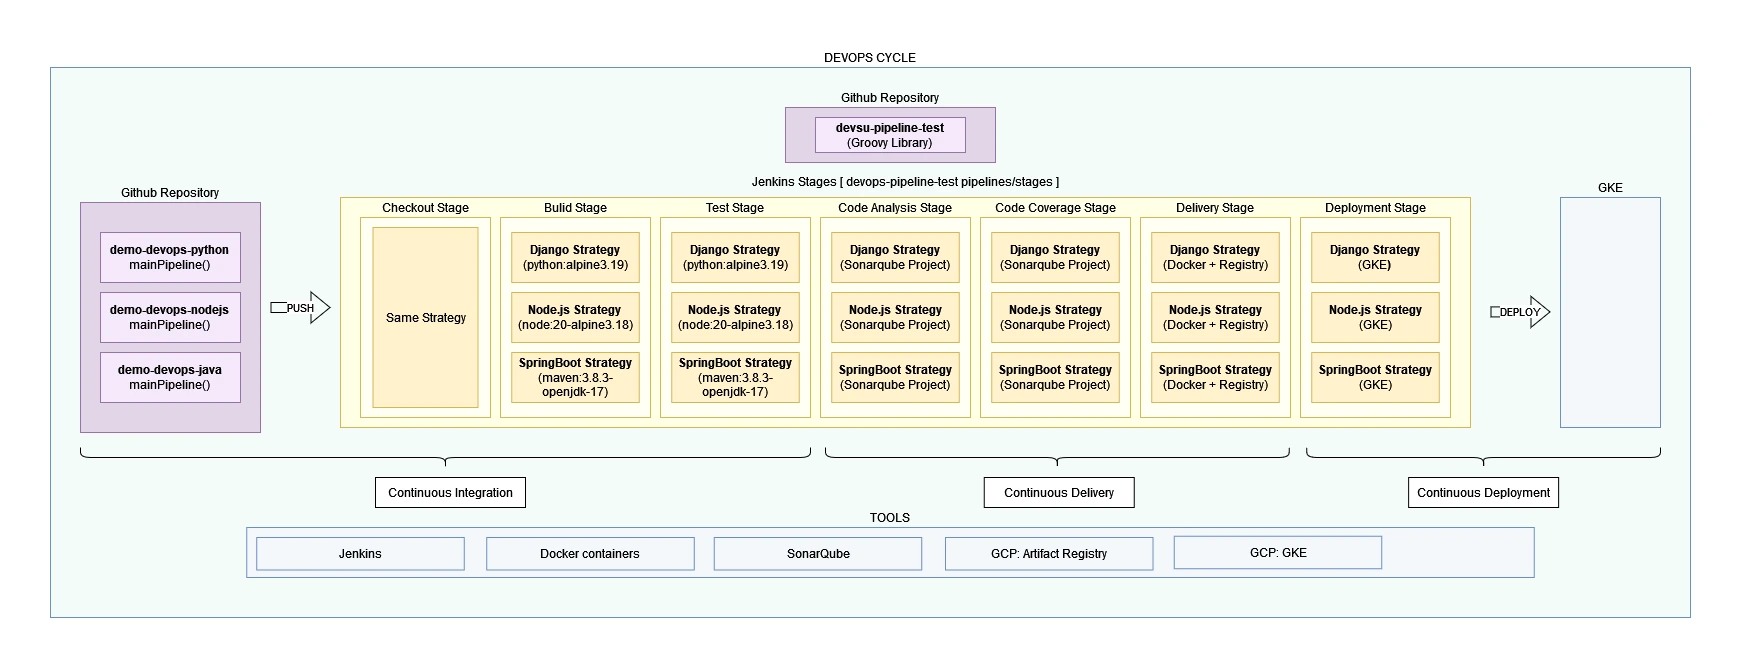
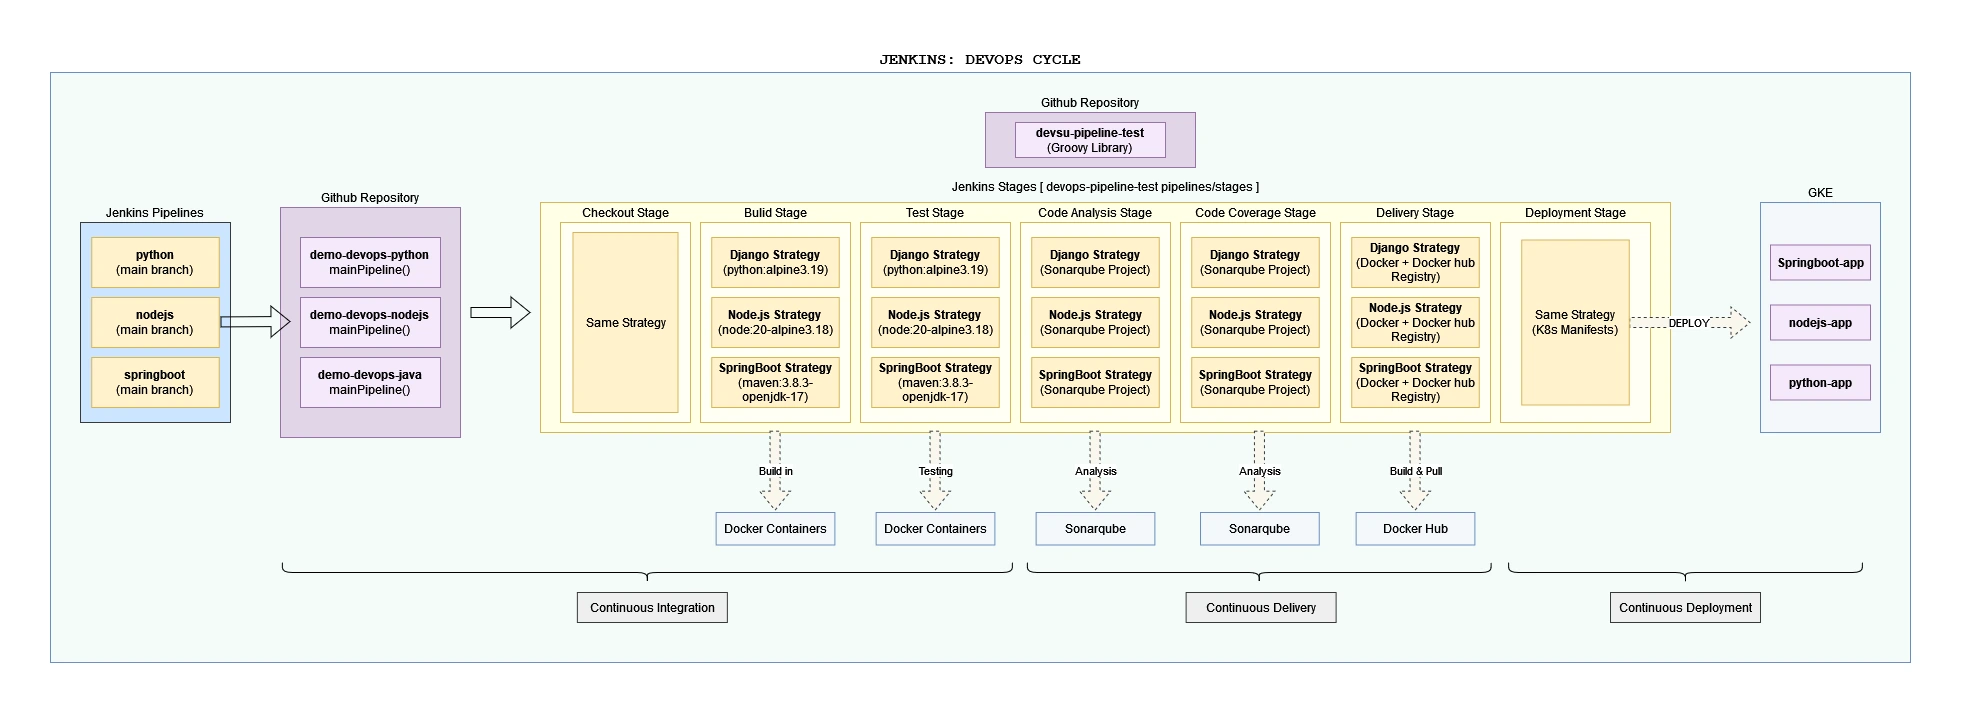
feat: Third version README.md

diff --git a/README.md b/README.md
@@ -44,15 +44,43 @@ El token generado siguiente comando, tiene que ser utilizada en Jenkins
 ```
 curl -u admin:devsu2024 -X POST "http://sonarqube:9000/api/user_tokens/generate?login=admin&name=testToken"
 ```
+**[[[[[[[[[[[[[[[ Crear proyectos por comando ]]]]]]]]]]]]]]]**
 Cambio en Jenkins:
 ![alt text](images/changeSecret.png)
 
-## 2. Infraestrctura
+Finalizado esto, podremos ver nuestro jenkins levantado y ejecutar los pipelines de devops-stages o de infrastructure:
+![alt text](images/devops-stages.png)
+![alt text](images/infrastructure-stages.png)
 
-## 1.1
+### 1.4 Log de ejecución previa:
+- Logs de la ejecución de este paso: [Log](Log-devops-tools.md)
 
-## 3. Pipelines
-### 1.1 Introducción
+## 2. Infraestructura
+## 2.1 Introducción
+La intención de la infraestructura desplegada es que pueda utilizarse en diferentes entornos. 
+
+## 2.2 Diagrama
+![Diagrama de Infraestructura](images/ArchitectureDiagram-Infrastructure.webp)
+
+Para la solución se ha utilizado:
+- Jenkins
+- Sonarqube
+- Docker containers
+- Docker Hub Registry
+- Google Cloud
+  - Google Compute Instance: Instancias
+  - Google Kubernetes Engine: GKE
+
+## 2.3 Despliegue 
+
+El despliegue de la solución constó de 2 etapas:
+- Aprovisionamiento el Google Cloud de la instancia y GKE Clúster utilizando scripts los módulos de terraform.
+  - Ruta: **[[[[[[[[[[[[[[[ Indicar ruta de los scripts Terraform]]]]]]]]]]]]]]]**
+  - Log: Aquí
+
+
+## 3. Pipelines Infraestructura
+### 3.1 Introducción
 Se ha querido dar un enfoque total. Crear una librería escrita en Groovy para Jenkins que sea escalable. Utilizando una estructura similar para diferentes tipos de proyectos, clouds y recursos.
 
 Link: https://github.com/eingaruca/devsu-pipeline-test/tree/main/pipelines/infrastructure/library
@@ -63,7 +91,7 @@ Tecnologías utilizadas:
   - Terraform
   - Ansible
 
-### 1.2 Pipeline
+### 3.2 Pipeline
 ![alt text](<images/ArchitectureDiagram-Infrastructure Cycle.webp>)
 
 Tal como se puede ver en el gráfico, se ha creado la librería Groovy que tendrá que utilizar cada Jenkinsfile. Esta librería aporta 5 etapas al pipeline.
@@ -79,7 +107,7 @@ Tal como se puede ver en el gráfico, se ha creado la librería Groovy que tendr
   - **AWS Strategy**: No implementado, mejora futura.
 - **Post Stage**: Limpieza del workspace
 
-### 1.3 Estructura de clases:
+### 3.3 Estructura de clases:
 
 ![alt text](images/infraClasses.png)
 
@@ -93,7 +121,7 @@ Tal como se puede ver en el gráfico, se ha creado la librería Groovy que tendr
   - **resources**: Utiliza los módulos creados antes, indica variables por defecto para que si el usario sólo indica el nombre del recurso, el pipeline se encargue de crear dicho recurso con valores por defecto.
     - **ansible**: Adicionalmente, en la carpeta de instancias, se han creado playbooks de ansible que instalan y configuran los recusos necesarios para la configuración de la instancia **[[[[[[[[[[[[[ REVISAR ]]]]]]]]]]]]]**.
 
-### 1.4 Uso Básico
+### 3.4 Uso Básico
 Jenkinsfile:
 
 ![alt text](images/mainInfrastructure.png)
@@ -116,14 +144,74 @@ El uso desde un Jenkinsfile es muy sencillo.
   ```
   Los demás parámetros necesarios los completan los scripts de terraform que utilizan los módulos. 
 
+## 4. Pipeline Ciclo DevOps (demo-app-*)
 
-Consta de tres etapas muy marcadas.
+### 4.1 Introducción
+También, se ha querido dar un enfoque total. Se ha creado una librería escrita en Groovy para Jenkins que sea escalable. Se ha adaptado las estrategias del pipeline para proyectos java (springboot), nodejs y python (Django). El uso de contenedores, permite que se dependa muy poco del entorno sobre el que se ejecuta y es el primer paso para llevarlo a orquestadores de microservicios como Kubernetes u Openshift.
 
-- Despliegue infrastructura
-  - IaC
-    - Google cloud
-      - 
+Se ha "modularizado" las diferentes etapas, por lo que si un Stage, un Strategy o alguna función interna de cada una de estas necesita reforzarce o ampliarse, puede hacerse limpiamente sin afectar a el script principal, incluso permitiendo que se pueda trabajar en paralelo en diferentes Stages.
+
+Si bien, aprender el uso inicial del Jenkinsfile puede implicar un poco de esfuerzo, se convierte en una herramienta potente sencilla y adaptable a diferentes proyectos.
+
+### 4.2 Pipeline
 
 ![alt text](<images/ArchitectureDiagram-DevOps Cycle.webp>)
 
-#
+El pipeline se ha parametrizado para ejecutarse en base a 2 factores:
+- **Tipo de Proyecto**. El pipeline admite proyectos en nodejs, python y java. La estrategia cambia dependiendo de ese parámetro.
+- **Tipo de Stage**. Desde el Jenkinsfile puedo indicar si necesito que alguna etapa se ejecute, siendo obligatorias el Checkout Stage y Build Stage. Todas las demás son opcionales. Esto permite adaptarse de muchos requerimientos y por lo mismo, escalable y ampliable a una branchStrategy (Mejora para el futuro).
+
+En cuanto a los Stages o etapas, esta es una breve descripción de cada una:
+
+- **Checkout Stage**: Obligatorio y común a todo tipo de proyecto, no hace falta parametrizarlo.
+- **Build Stage**: Obligatorio. Dependiendo del tipo de proyecto realiza un build de manera diferente. Realiza el build en contenedor docker para no utilizar configuración del servidor (Contenedor) de Jenkins.
+- **Test Stage**: Opcional. *ArrayList*. Si no se espefica, no se ejecuta. Pero si se espefica, hay que indicarle que tipo de pruebas necesitamos. Se hacen las pruebas sobre contenedores (Se crean y destruyen) docker para no depender de la configuración de Jenkins. Hay tres tipos de pruebas:
+  - **Unitarias**: *Boolean*. Si no existe para el tipo de Proyecto, lo imprime en el output del pipeline.
+  - **Aceptación**: *Boolean*. Si no existe para el tipo de Proyecto, lo imprime en el output del pipeline.
+  - **Integración**: *Boolean*. Si no existe para el tipo de Proyecto, lo imprime en el output del pipeline.
+- **Code Analysis Stage**: *Boolean*. Si es true, utiliza el tipo de proyecto para realizar el análisis de código estático buscando el proyecto específico en el contenedor de Sonarqube previamente desplegado simulando un servidor de Sonarqube.
+- **Code Coverage Stage**: *Boolean*. Si es true, utiliza el tipo de proyecto para realizar el análisis de código estático buscando el proyecto específico en el contenedor de Sonarqube previamente desplegado simulando un servidor de Sonarqube.
+- **Delivery Stage**: *Boolean*. Si es true, realiza el build y push del Dockerfile de cada proyecto , dependiendo del Tipo de Proyecto, sobre el repositorio de DockerHub.
+- **Deployment Stage**: *Boolean*. Si es true, utiliza una imagen oficial de GCP para crear un contenedor, se realiza de esta forma por seguridad. Así evitamos cualquier configuración en el servidor (Contenedor) de Jenkins:
+  - Hace login al clúster de GKE. 
+  - Borra recursos utilizando el manifiesto en el proyecto.
+  - Aplica el manifiesto.
+  - Realiza una comprobación (kubectl get pods) para comprobar que los pods estén ejecutándose.
+- **Post Stage**: Limpieza del workspace. **[[[[[[[Proximamente]]]]]]]**
+
+### 4.3 Estructura de clases
+![alt text](images/devops-Classes.png)
+
+- La clase principal es **mainPipeline.groovy**, que recibirá los parámetros que determinarán el comportamiento/estrategia del pipeline.
+
+- La carpeta **src/org/emic/devsu** contiene las Stages y ejecuta la estrategia dependiendo de los parámetros recibidos (Tipo de proyecto springboot, nodejs, django). Llama a las clases que se encuentran en la carpeta vars. Existe una clase groovy por cada Stage configurado en el proyecto.
+- La carpeta **vars** ejecuta finalmente los Stages. Recibirá parámetros de los stage de la carpeta **src**.
+### 4.4 Uso Básico
+
+Jenkinsfile:
+
+![alt text](images/mainPipeline.png)
+
+El uso desde un Jenkinsfile es muy sencillo. 
+- Indicar la librería previamente configurada en Jenkins:
+
+  ```
+  @Library('devops-pipelines@dev')
+  import org.emic.devsu.*
+  ```
+- Indicar el comportamiento llamando la mainPipeline. En este caso:
+  - La estrategia se centrará en procesar un proyecto springboot.
+  - Realizará los 3 tipos de pruebas.
+  - Realizará los Stages de codeCoverage, Delivery y Deploy.
+  ```
+  mainPipeline {
+    projectType = "springboot"
+    test = [true, true, true]
+    codeAnalysis = true
+    codeCoverage = true
+    delivery = true
+    deploy = true
+  }
+  ```
+  
+  - La ventaja del esta estructura es que es fácil de escalar, se liberan las clases de lógica y funcionalidad permitiendo crecer ordenadamente.

diff --git a/Log-devops-tools.md b/Log-devops-tools.md
@@ -1,0 +1,2 @@
+
+sdfsdf
